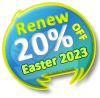
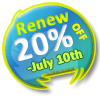
new Bargain (July 10th)

Changed region(s): [[0.21, 0.4592, 0.9, 0.7653]]

diff --git a/popup/popup.js b/popup/popup.js
@@ -7,16 +7,14 @@ For details, please refer to license.txt in the root folder of this extension
 END LICENSE BLOCK */
 
 /* shared module for installation popups */
-const SALE_DATE = "2023-04-24";
+const SALE_DATE = "2023-07-10";
 
 async function updateActions(addonName) {
   let licenseInfo = await messenger.runtime.sendMessage({command:"getLicenseInfo"});
   
   // LICENSING FLOW
   let isExpired = licenseInfo.isExpired,
-      isValid = licenseInfo.isValid,
-      isProUser = true,
-      isStandard= false; // future use
+      isValid = licenseInfo.isValid;
 
   function hide(id) {
     let el = document.getElementById(id);
